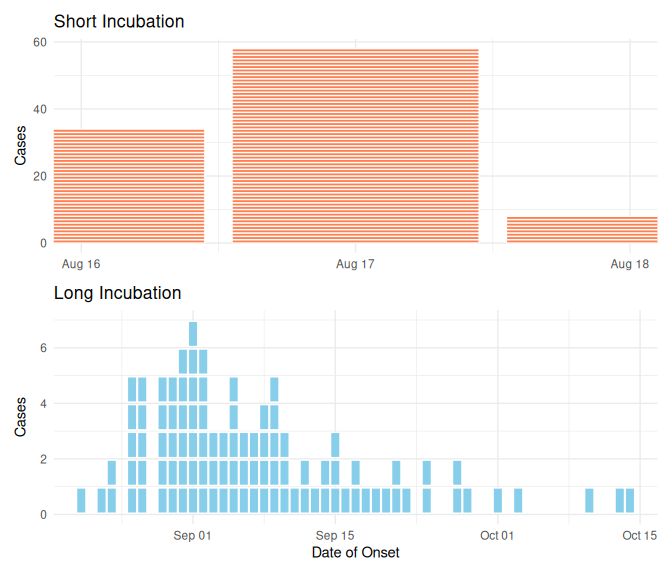
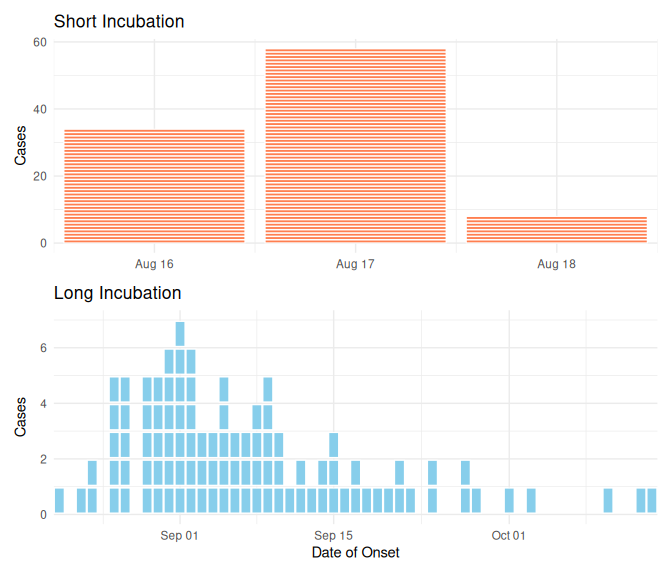
Re-build README.Rmd

diff --git a/README.md b/README.md
@@ -157,11 +157,13 @@ library(patchwork)
 
 p1 <- ggplot(short_incubation, aes(x = onset_date)) +
   geom_epicurve(fill = "coral") +
+  scale_x_date(expand = expansion(add = 0.5)) +
   labs(title = "Short Incubation", x = NULL, y = "Cases") +
   theme_minimal()
 
 p2 <- ggplot(long_incubation, aes(x = onset_date)) +
   geom_epicurve(fill = "skyblue") +
+  scale_x_date(expand = expansion(add = 0.5)) +
   labs(title = "Long Incubation", x = "Date of Onset", y = "Cases") +
   theme_minimal()
 
